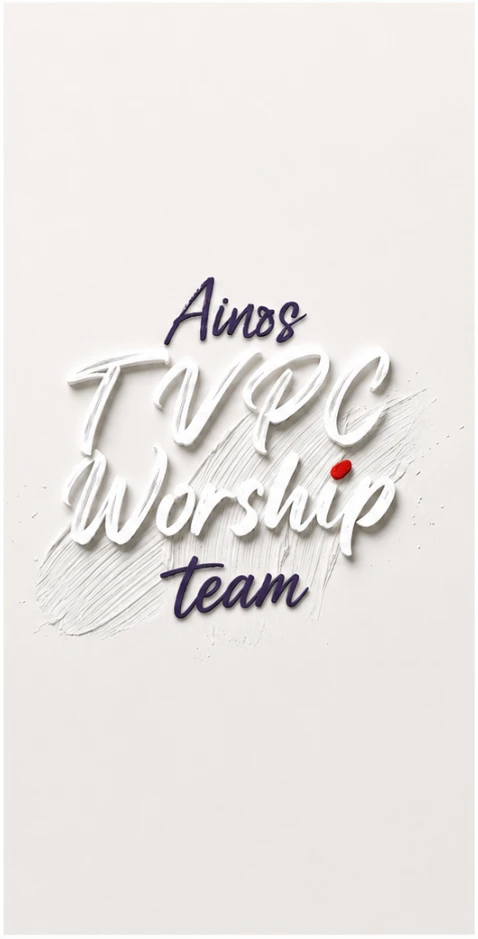
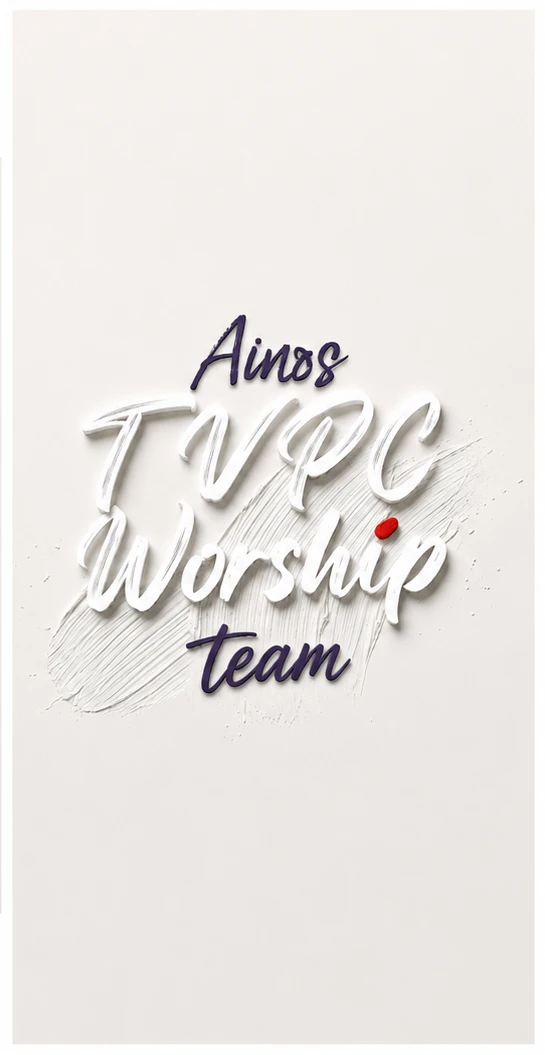
v3.538: update portrait background image
https://claude.ai/code/session_01RpDoybcSjfb8YFvLTDiRWW

Changed region(s): [[0.0879, 0.278, 0.8494, 0.6794], [0.0, 0.6486, 0.9958, 1.0], [0.5565, 0.4324, 0.5858, 0.4633]]

diff --git a/src/App.jsx b/src/App.jsx
@@ -19,7 +19,7 @@ import {
 } from "firebase/firestore";
 
 /* ── App version ── */
-const APP_VERSION = "3.537";
+const APP_VERSION = "3.538";
 const localDateStr = (d = new Date()) =>
   `${d.getFullYear()}-${String(d.getMonth()+1).padStart(2,'0')}-${String(d.getDate()).padStart(2,'0')}`;
 